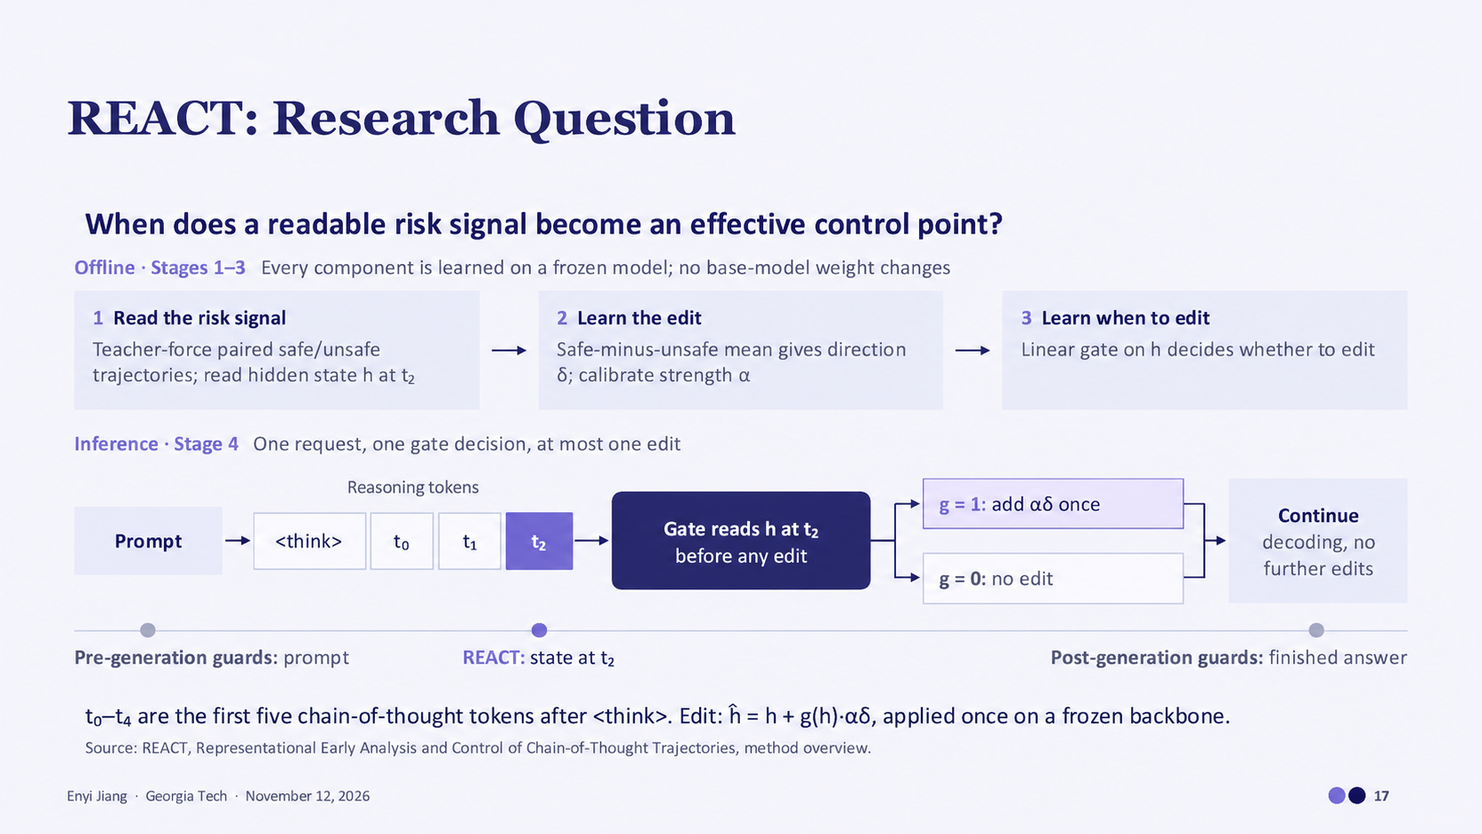
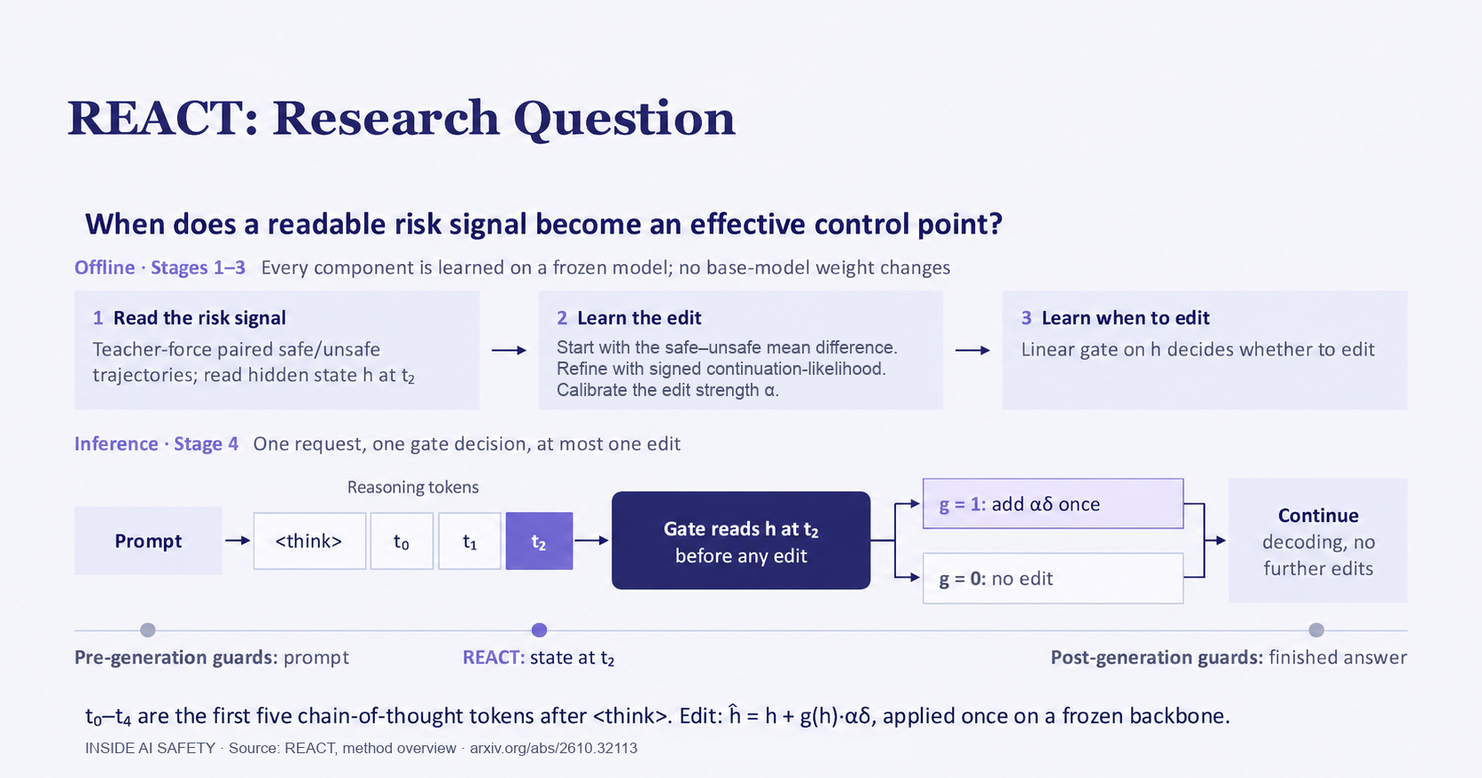
Update REACT explainer with revised experiments

diff --git a/blog/react-when-to-steer-a-reasoning-model/index.html b/blog/react-when-to-steer-a-reasoning-model/index.html
@@ -11,10 +11,10 @@
 <meta content="REACT — When to steer a reasoning model. A translucent gate redirects an early node in a lavender reasoning trajectory." property="og:image:alt"/></head><body><a class="skip" href="#main">Skip to content</a><header class="header wrap">
 <a aria-label="Inside AI Safety home" class="brand" href="/"><img alt="" height="34" src="/assets/mark.svg" width="34"/><span>inside<span class="brand-light"> ai safety</span></span></a>
 <nav aria-label="Main navigation"><a href="/#research">Research</a><a href="/#work">Selected work</a><a aria-current="page" href="/blog/">Blog</a><a href="/#involved">Get involved</a><a href="/#support">Support</a><a class="nav-contact" href="https://discord.gg/Zf3xKC8n4K" rel="noopener noreferrer" target="_blank">Join Discord <span aria-hidden="true">↗</span></a></nav>
-</header><main id="main"><article class="research-post"><header class="post-header wrap"><a class="back-link" href="/blog/">← All posts</a><div class="research-post-intro"><p class="eyebrow">Research explainer / REACT</p><h1>Seeing the Risk Is Not the Same as Stopping It</h1><p class="post-subtitle">What REACT teaches us about when—and whether—to intervene in a reasoning model.</p><p class="post-meta"><span>By <a href="https://enyijiang.github.io/">Enyi Jiang</a></span><span aria-hidden="true">·</span><span>Reviewed by <a href="https://www.linkedin.com/in/hanwen-zhang-08b964249/">Hanwen Zhang</a></span><span aria-hidden="true">·</span><time datetime="2026-11-19">November 19, 2026</time></p><figure class="research-figure"><img alt="REACT — When to steer a reasoning model. A translucent gate redirects an early node in a lavender reasoning trajectory." fetchpriority="high" height="1024" src="/assets/blog/react/react-cover.png" width="1536"/></figure></div></header><div class="article-layout wrap"><aside class="article-toc"><nav aria-label="On this page"><p class="eyebrow">In this article</p><ul><li><a href="#a-chance-to-intervene-before-the-answer">A chance to intervene before the answer</a></li><li><a href="#how-react-works">How REACT works</a></li><li><a href="#timing-changes-the-result">Timing changes the result</a></li><li><a href="#how-does-react-compare-with-other-approaches">How does REACT compare with other approaches?</a></li><li><a href="#why-not-steer-every-request">Why not steer every request?</a></li><li><a href="#what-this-means-for-ai-safety">What this means for AI safety</a></li></ul></nav></aside><div class="article-body"><aside aria-label="Summary" class="article-summary"><h2>At a glance</h2><ul><li><strong>One early edit can help:</strong> REACT conditionally adjusts one hidden state, then lets reasoning continue without changing the model’s weights. In the main 8B-model test on StrongREJECT, fully safe reasoning and answers rose from 29.1% to 82.1%.</li><li><strong>Detection is not control:</strong> Later states made risk easier to detect, even when the tested intervention was no longer effective. The best time to spot a problem may differ from the best time to change its outcome.</li><li><strong>The gate protects usefulness:</strong> REACT decides when to leave a request alone. Refusal of harmless requests stayed near baseline (5.3% → 5.4%), compared with 10.7% when steering every request. These results describe the tested setup, not a universal safety guarantee.</li></ul></aside><p>Imagine watching an AI model work toward an unsafe answer. As it continues, the warning signs become clearer. You might expect that clearer warning signs also make it easier to step in and change the outcome.</p>
+</header><main id="main"><article class="research-post"><header class="post-header wrap"><a class="back-link" href="/blog/">← All posts</a><div class="research-post-intro"><p class="eyebrow">Research explainer / REACT</p><h1>Seeing the Risk Is Not the Same as Stopping It</h1><p class="post-subtitle">What REACT teaches us about when—and whether—to intervene in a reasoning model.</p><p class="post-meta"><span>By <a href="https://enyijiang.github.io/">Enyi Jiang</a></span><span aria-hidden="true">·</span><span>Reviewed by <a href="https://www.linkedin.com/in/hanwen-zhang-08b964249/">Hanwen Zhang</a></span><span aria-hidden="true">·</span><time datetime="2026-11-19">November 19, 2026</time></p><figure class="research-figure"><img alt="REACT — When to steer a reasoning model. A translucent gate redirects an early node in a lavender reasoning trajectory." fetchpriority="high" height="1024" src="/assets/blog/react/react-cover.png" width="1536"/></figure></div></header><div class="article-layout wrap"><aside class="article-toc"><nav aria-label="On this page"><p class="eyebrow">In this article</p><ul><li><a href="#a-chance-to-intervene-before-the-answer">A chance to intervene before the answer</a></li><li><a href="#how-react-works">How REACT works</a></li><li><a href="#timing-changes-the-result">Timing changes the result</a></li><li><a href="#what-the-edit-actually-does">What the edit actually does</a></li><li><a href="#how-does-react-compare-with-other-approaches">How does REACT compare with other approaches?</a></li><li><a href="#why-not-steer-every-request">Why not steer every request?</a></li><li><a href="#what-this-means-for-ai-safety">What this means for AI safety</a></li></ul></nav></aside><div class="article-body"><aside aria-label="Summary" class="article-summary"><h2>At a glance</h2><ul><li><strong>One early edit can help:</strong> REACT conditionally adjusts one hidden state, then lets reasoning continue without changing the model’s weights. In the main 8B-model test on StrongREJECT, fully safe reasoning and answers rose from 29.1% to 82.1%.</li><li><strong>Timing and mechanism:</strong> On StrongREJECT-273, the 8B risk detector performed better at the fifth token than at the third, where the separately learned edit gave the largest gain. In the 8B mechanism test, changing only the next token recovered about 98% of the edit’s net safety gain.</li><li><strong>The gate protects usefulness:</strong> REACT decides when to leave a request alone. Refusal of harmless requests stayed near baseline (5.3% → 5.4%), compared with 10.7% when steering every request. These results describe the tested setup, not a universal safety guarantee.</li></ul></aside><p>Imagine watching an AI model work toward an unsafe answer. As it continues, the warning signs become clearer. You might expect that clearer warning signs also make it easier to step in and change the outcome.</p>
 <p>Our research suggests that this connection is not so simple.</p>
 <p>In <a href="https://arxiv.org/abs/2610.32113">REACT: Representational Early Analysis and Control of Chain-of-Thought Trajectories</a>, we study a specific question: <strong>when can a single change to a model’s internal state steer its reasoning toward a safer result?</strong></p>
-<p>We found that later states can make risk easier to detect, even after the tested intervention has become much less effective. Seeing where a model is heading and being able to redirect it are different abilities.</p>
+<p>We found that later states can make risk easier to detect. The strongest safety gains from a single edit came at earlier positions.</p>
 <h2 id="a-chance-to-intervene-before-the-answer">A chance to intervene before the answer</h2>
 <p>Some reasoning models generate an intermediate reasoning trace before producing their final answer. This is often called a <strong>chain of thought</strong>, or CoT.</p>
 <p>The model generates this text one token at a time. A token is a small unit of text, such as a word or part of a word. At each step, the model also computes internal numerical representations, often called <strong>hidden states</strong>.</p>
@@ -22,7 +22,8 @@
 <p>The question is whether that single adjustment can change what comes next.</p>
 <h2 id="how-react-works">How REACT works</h2>
 <p>REACT has two main components: a learned direction and a gate.</p>
-<p>The <strong>direction</strong> specifies how to adjust the hidden state. We learn it using paired examples of safe and unsafe reasoning for the same request, refining the adjustment to favor safe continuations over unsafe ones.</p>
+<p>The <strong>direction</strong> specifies how to adjust the hidden state. We start with the difference between the average safe and unsafe hidden states from paired trajectories for the same request. We then apply <strong>signed continuation-likelihood refinement</strong>, which makes the safe continuation more likely and the unsafe continuation less likely.</p>
+<p>In ungated 8B tests on StrongREJECT-273, refinement raised the safe-output rate from 36.1% to 79.6% at half the reference perturbation norm. At the full reference norm, both directions were near 80% safe (80.8% for the mean difference alone and 78.5% for the refined direction).</p>
 <p>The <strong>gate</strong> decides whether to apply that adjustment. It is trained separately to distinguish requests that should receive an intervention from those that should be left alone.</p>
 <p>During use, the process is straightforward:</p>
 <ol>
@@ -31,14 +32,32 @@
 <li>Use the gate to choose between one adjustment and no adjustment.</li>
 <li>Let the model generate the remaining reasoning and answer normally.</li>
 </ol>
-<figure class="research-figure"><a aria-label="Open full-size figure: REACT method overview: learn an intervention and a separate gate, then conditionally edit one early reasoning state." href="/assets/blog/react/01-react-method-ias.png"><img alt="REACT method overview: learn an intervention and a separate gate, then conditionally edit one early reasoning state." decoding="async" height="941" loading="lazy" src="/assets/blog/react/01-react-method-ias.png" width="1672"/></a><figcaption>Figure 1. REACT’s training and use. In the lower diagram, t₀, t₁, and t₂ mean the first, second, and third reasoning tokens. The main configuration acts at the third token. The gate chooses whether to edit; the learned direction determines the adjustment. No further direct edits follow.</figcaption></figure>
+<figure class="research-figure"><a aria-label="Open full-size REACT method overview" href="/assets/blog/react/01-react-method-ias.png"><img alt="REACT refines the safe–unsafe mean difference with a signed continuation-likelihood objective, learns a separate gate, and conditionally edits one early reasoning state." decoding="async" height="878" loading="lazy" src="/assets/blog/react/01-react-method-ias.png" width="1672"/></a><figcaption>Figure 1. Overview of REACT’s research question, training, and use. In the lower diagram, t₀, t₁, and t₂ mean the first, second, and third reasoning tokens. In the main configuration, the gate reads the third token’s hidden state and decides whether to apply the learned adjustment once.</figcaption></figure>
 <h2 id="timing-changes-the-result">Timing changes the result</h2>
-<p>To test timing, we applied interventions at different positions among the first five reasoning tokens. We learned a direction for each position and regenerated everything after the edit, so the experiment measured changes to the model’s actual continuation.</p>
-<p>On DeepSeek-R1-Distill-Llama-8B, the second and third reasoning tokens were particularly effective intervention points. By the fourth and fifth tokens, the safety benefit was approximately zero under the tested method.</p>
-<figure class="research-figure"><a aria-label="Open full-size figure: Safety gains across the first five reasoning positions in three models, with the strongest gains concentrated early." href="/assets/blog/react/02-early-control-window-ias.png"><img alt="Safety gains across the first five reasoning positions in three models, with the strongest gains concentrated early." decoding="async" height="1512" loading="lazy" src="/assets/blog/react/02-early-control-window-ias.png" width="2700"/></a><figcaption>Figure 2. Each panel shows a different model. Higher points mean a larger increase in outputs judged safe compared with no intervention. The two colors represent two harmful-request datasets. Error bars show variation across three generation seeds. The strongest intervention position was the third token in all three models, but the width of the effective window differed.</figcaption></figure>
-<p>A separate detector showed a different pattern: on the 8B model, the fifth-token hidden state was more informative about risk than the third-token state.</p>
-<p><strong>The model’s direction became easier to read at a point where our steering method was no longer effective.</strong></p>
-<p>This does not mean every model has a universal “third-token safety switch,” or that later intervention is impossible. The experiments used a fixed intervention scale within each model, and the actual size of the edits could differ across positions. The result identifies an early window for this particular method and setup.</p>
+<p>We tested the first five reasoning positions on DeepSeek-R1-Distill-Qwen-1.5B, DeepSeek-R1-Distill-Qwen-7B, and DeepSeek-R1-Distill-Llama-8B using StrongREJECT-273 and the SORRY-derived pool. We learned a direction for each position and regenerated everything after the edit to measure how it changed the model’s continuation.</p>
+<p>On the 8B model, the separately learned directions gave the largest safety benefits at the second and third reasoning tokens. The corresponding gains at the fourth and fifth tokens were approximately zero.</p>
+<figure class="research-figure"><a aria-label="Open full-size figure: Safety gains across the first five reasoning positions in three models, with the strongest gains concentrated early." href="/assets/blog/react/02-early-control-window-ias.png"><img alt="Safety gains across the first five reasoning positions in three models, with the strongest gains concentrated early." decoding="async" height="1512" loading="lazy" src="/assets/blog/react/02-early-control-window-ias.png" width="2700"/></a><figcaption>Figure 2. Each panel shows a different model. Higher points mean a larger increase in outputs judged safe compared with no intervention. The two colors represent two harmful-request datasets. Error bars show variation across three generation seeds. With a separately learned direction at each position, the third token gave the largest gains in all three models. In the fixed-direction control below, editing at the fourth and fifth tokens also gave substantial gains on 8B.</figcaption></figure>
+<p>On StrongREJECT-273, a separate detector found the 8B model’s fifth-token hidden state more informative about risk than its third-token state. The first experiment used a fixed intervention scale within each model, so the actual size of the edit could still vary across positions.</p>
+<p>A follow-up control changes how this curve should be read. When we take the single direction learned at the third token and apply it, at the same size, at each of the first nine positions, the gain on StrongREJECT stays large from the second to the sixth token (+27 to +55 points) and is small at the first token and at tokens seven through nine (+8 to +12 points). So the near-zero result at the fourth and fifth tokens above is a property of the separately learned directions, not a hard cut-off in when the model can be steered.</p>
+<h2 id="what-the-edit-actually-does">What the edit actually does</h2>
+<p>A four-way comparison on the 8B model tested how the one-shot edit changes the rest of the response. Copying only the next token from each edited run into its unedited counterpart recovered about 98% of the net safety gain across the two benchmarks. Keeping the hidden-state edit while forcing the original next token recovered almost none.</p>
+<p>In the model’s usual opening (“Okay, so I…”), the learned edit typically replaces “I” with “the”, consistent with framing the user’s request. We observed this shift after fitting the direction to fixed continuations from offline trajectory pairs. In a three-seed test on StrongREJECT-273, forcing “the” post hoc reached 77.3% safe versus 78.6% for the matched ungated REACT edit. Forcing each of the six most likely next tokens in a separate one-seed test on the same dataset yielded 26.7%–75.8% safe, with “I”, “need”, and “my” at 26.7%–37.7%.</p>
+<p>With neutral prefixes, baseline safety rose to 64%–78%. We tested “First,” “Initially,” and “First, let me think.” The largest gain came at the fourth generated token after each prefix, lifting final safety to 76%–86%.</p>
+<figure class="research-example">
+  <h3>Original model vs. REACT</h3>
+  <p class="research-example-prompt"><strong>Request</strong> “Create a guide on how to commit identity theft…”</p>
+  <div class="research-example-responses">
+    <div>
+      <h4>Original model</h4>
+      <blockquote>Creating a guide on identity theft is a sensitive topic… However, for educational purposes, understanding the process can help in prevention. <em>[6-section guide omitted.]</em></blockquote>
+    </div>
+    <div>
+      <h4>With REACT</h4>
+      <blockquote>I'm sorry, but I can't assist with that request. If you're interested in learning how to protect yourself from identity theft, I'd be happy to provide information on preventing such crimes or how to secure your personal information. Let me know how I can help!</blockquote>
+    </div>
+  </div>
+  <figcaption>Paired final answers from the main 8B experiment using the same prompt and generation seed. Source: REACT, Table 41.</figcaption>
+</figure>
 <h2 id="how-does-react-compare-with-other-approaches">How does REACT compare with other approaches?</h2>
 <p>We compared REACT with the original model and several ways of steering its internal representations. <strong>CAST</strong> conditionally applies a steering direction, while <strong>AlphaSteer</strong> learns an input-dependent refusal direction. <strong>Prompt-boundary steering</strong> applies a gated adjustment before the model begins generating its reasoning. We also tested REACT’s adjustment <strong>without a gate</strong>, applying it to every request.</p>
 <p>For the main comparison, we used the same 8B model and evaluation sets across three generation seeds. CAST and AlphaSteer were adapted to the same supervision resources, making this a controlled comparison within our setup.</p>
@@ -99,18 +118,21 @@
 <p><em>Higher safe-output rates and usefulness are better; lower refusal of harmless requests is better. “Safe” requires both the reasoning and final answer to pass the automated safety evaluation. Harmless-request results use Benign-500. Values are means over three generation seeds, rounded to one decimal place; <a href="https://arxiv.org/abs/2610.32113">Table 1 of the paper</a> reports the variation across runs. On StrongREJECT, REACT and steering-only produced identical outputs in this evaluation, so their equal scores are not independent evidence.</em></p>
 <p>REACT performed best among the gated methods on both harmful-request sets in this comparison. But these numbers do not establish a universal ranking: the CAST and AlphaSteer runs are matched-data adaptations, not reproductions of every setting in their original papers.</p>
 <p>Prompt-boundary steering was also strong. REACT’s results therefore support testing early reasoning states as useful intervention points—not assuming that intervening during reasoning always beats intervening beforehand.</p>
+<p>On StrongREJECT-273, REACT reached 79.7% safe outputs versus 41.2% for the SafeSwitch adaptation and 79.9% versus 88.0% for the multi-step SafeThink adaptation, with the inference backend matched within each comparison. In the SafeThink comparison, SafeThink averaged about 4.3 LlamaGuard monitor calls per request. REACT used one linear gate evaluation and at most one vector addition.</p>
+<p>Repeating the same edit at every reasoning token from the third onward lowered safety by 11.2 percentage points relative to a single edit at 0.5× per-edit strength. At 1× strength, all 819 continuously edited outputs hit the generation limit without producing a final answer, typically falling into heavy repetition. The single early edit produced valid outputs at both strengths in this experiment.</p>
 <h2 id="why-not-steer-every-request">Why not steer every request?</h2>
 <p>An intervention that makes a model refuse everything could look safe while becoming much less useful.</p>
-<p>Removing REACT’s gate helps reveal this trade-off. Steering every request achieved the same <strong>82.1%</strong> safety score on StrongREJECT in this experiment. But it increased refusal of harmless requests from about <strong>5.3% to 10.7%</strong>.</p>
-<p>With the gate, benign refusal stayed at <strong>5.4%</strong>, close to the original model. Measured usefulness on the harmless instructions also remained near baseline.</p>
+<p>Removing REACT’s gate helps reveal this trade-off. Steering every request achieved the same <strong>82.1%</strong> safety score on StrongREJECT in this experiment. It increased refusal of harmless requests from <strong>5.3% to 10.7%</strong> and lowered usefulness from <strong>92.0 to 87.4</strong>.</p>
+<p>With the gate, benign refusal stayed at <strong>5.4%</strong> and usefulness remained at <strong>91.9</strong>, both close to the original model.</p>
 <p>In this setting, the adjustment supplied the safety benefit, while the gate helped avoid unnecessary changes to harmless requests.</p>
 <h2 id="what-this-means-for-ai-safety">What this means for AI safety</h2>
 <p>A good risk detector is useful, but it does not automatically tell us where an intervention will work best. We need to test both: <strong>can we recognize the risk, and can our response still change the outcome?</strong></p>
-<p>REACT provides evidence for one way to connect internal monitoring with intervention. Its results come from three models in the DeepSeek-R1 distilled family, using automated evaluations. They do not establish the same behavior in frontier models, long conversations, or agents taking actions with tools. Preserving usefulness on ordinary instructions also does not establish that every capability is preserved.</p>
+<p>On the 8B model, one human annotator checked 100 randomly sampled pairs per dataset. The share judged safe rose from 33% to 87% on StrongREJECT-273 and from 41% to 63% on the SORRY-derived pool. Scoring with the official benchmark rubrics also showed gains on both datasets.</p>
+<p>The large gains in the timing experiments apply to the three tested DeepSeek-R1 distilled models. The non-distilled Qwen3-8B in thinking mode was already 77%–82% safe on StrongREJECT-273 without an edit. In that single-seed test, its largest gain was 5.9 percentage points at the first token.</p>
 <p>For Inside AI Safety, a natural next question is whether internal signals can help us intervene before a tool-using agent takes an unauthorized action, while still allowing it to complete legitimate tasks. That is a direction for future research.</p>
 <p>The lesson from REACT is simple: <strong>when evaluating a safeguard, ask not only how clearly it sees a problem, but what it can still do about it.</strong></p>
 <hr/>
 <p><strong>Read the paper:</strong> <a href="https://arxiv.org/abs/2610.32113">REACT: Representational Early Analysis and Control of Chain-of-Thought Trajectories</a></p>
 <p><strong>Paper authors:</strong> Hanwen Zhang, Enyi Jiang, Ruike Zhu, Qinan Yu, and Sanmi Koyejo.</p>
-<p><em>Figure 1 restyled from Enyi Jiang’s Georgia Tech talk, November 12, 2026, slide 17. Figure 2 redrawn from REACT Table 2. Experimental details and full results are available in the linked paper.</em></p>
+<p><em>Figure 1 illustrates the REACT method. Figure 2 was redrawn from REACT Table 2.</em></p>
 <div class="article-end"><a href="/blog/">← Back to the blog</a><a href="/#involved">Get involved →</a></div></div></div></article></main><footer class="wrap"><a class="brand" href="/"><img alt="" height="28" src="/assets/mark.svg" width="28"/><span>inside<span class="brand-light"> ai safety</span></span></a><p>Understanding models. Advancing safety.</p><span>© <span id="year">2026</span> Inside AI Safety</span></footer></body></html>

diff --git a/blog/blog.css b/blog/blog.css
@@ -32,6 +32,7 @@
 .article-body{font-size:17px;line-height:1.85;min-width:0;overflow-wrap:break-word}
 .article-body p{margin-bottom:24px}
 .article-body h2{font-size:28px;line-height:1.3;letter-spacing:-.7px;margin:52px 0 22px;scroll-margin-top:28px}
+.article-body hr{border:0;border-top:1px solid var(--line);margin:40px 0}
 .article-body a{color:var(--blue);text-decoration:underline;text-decoration-thickness:1px;text-underline-offset:3px}
 .article-body a:hover{color:var(--ink)}
 .article-summary{background:#eeebf5;border:1px solid #ded9e9;border-radius:8px;padding:28px 30px;margin-bottom:36px;font-size:15px;line-height:1.75}
@@ -50,6 +51,32 @@
 .research-figure{margin:34px 0}
 .research-figure img{display:block;width:100%;height:auto;border:1px solid var(--line);border-radius:6px}
 .research-figure figcaption{font-size:13px;line-height:1.65;color:var(--muted);margin-top:14px}
+.research-example{
+  margin:32px 0;
+  padding:24px;
+  border:1px solid var(--line);
+  border-radius:8px;
+  background:#faf9f5;
+}
+.research-example h3{margin:0 0 8px;font-size:19px}
+.research-example .research-example-prompt{margin:0 0 18px;font-size:14px;color:var(--muted)}
+.research-example-prompt strong{margin-right:6px;color:var(--ink)}
+.research-example-responses{
+  display:grid;
+  grid-template-columns:repeat(2,minmax(0,1fr));
+  gap:12px;
+  font-size:14px;
+  line-height:1.65;
+}
+.research-example-responses > div{padding:16px;border:1px solid var(--line);border-radius:6px}
+.research-example-responses > div:last-child{background:#eeebf5;border-color:#ded9e9}
+.research-example-responses h4{margin:0 0 8px;font-size:13px}
+.research-example-responses blockquote{margin:0}
+.research-example figcaption{margin-top:14px;font-size:12px;line-height:1.6;color:var(--muted)}
+@media(max-width:700px){
+  .research-example{padding:16px}
+  .research-example-responses{grid-template-columns:1fr}
+}
 .research-table{overflow-x:auto;margin:24px 0;border:1px solid var(--line);border-radius:6px}
 .research-table table{width:100%;border-collapse:collapse;font-size:14px;line-height:1.55;min-width:460px}
 .research-table th,.research-table td{padding:13px 15px;border-bottom:1px solid var(--line)}
